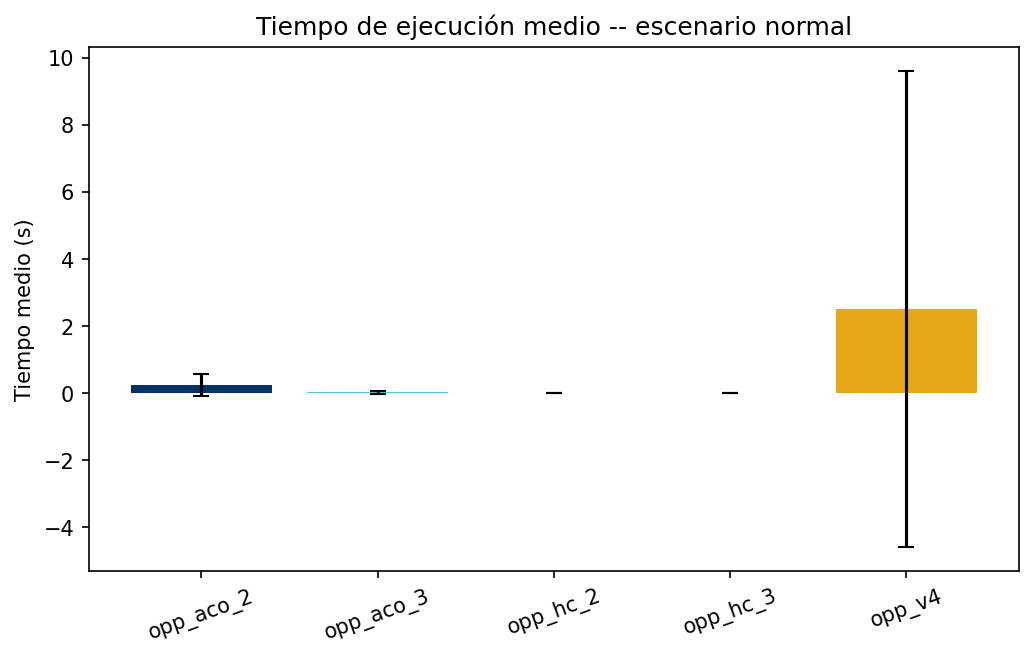
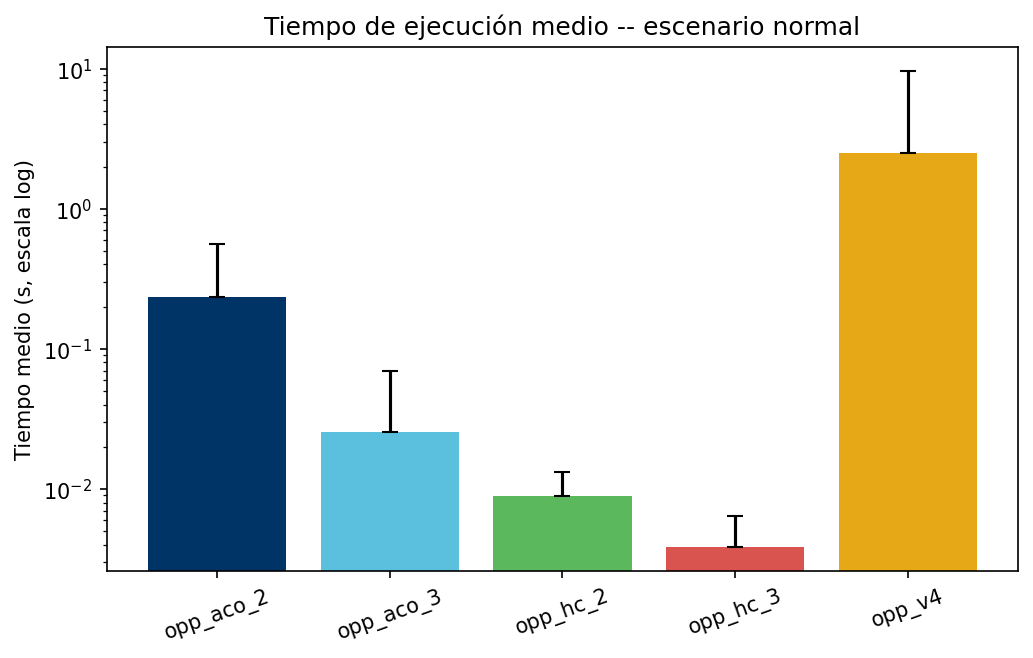
Run analysis and add readme and a report

diff --git a/analysis/plots.py b/analysis/plots.py
@@ -24,16 +24,26 @@ def _save(fig, name: str) -> str:
 
 
 def plot_mean_time_by_scenario(time_stats_df, scenario: str) -> "str | None":
-    """Grouped bar: mean total_time per model, for one scenario."""
+    """
+    Grouped bar: mean total_time per model, for one scenario. Log-scaled
+    (times here span 3+ orders of magnitude, e.g. opp_hc_2's ~0.02s vs
+    opp_aco_3's ~1000s -- on a linear axis the fast models are literally
+    invisible next to the slow ones). Error bars are one-sided upward only:
+    total_time can't be negative, so a symmetric std bar (mean - std) would
+    dip below zero whenever std > mean, which happened here and is
+    meaningless for a duration.
+    """
     sub = time_stats_df[time_stats_df["scenario"] == scenario]
     if sub.empty:
         print(f"[plots] no time_stats data for scenario={scenario}, skipping bar chart.")
         return None
 
+    std = sub["std_time"].fillna(0)
     fig, ax = plt.subplots(figsize=(7, 4.5))
-    ax.bar(sub["model"], sub["mean_time"], yerr=sub["std_time"].fillna(0),
+    ax.bar(sub["model"], sub["mean_time"], yerr=[[0] * len(sub), std],
            color=PALETTE[: len(sub)], capsize=4)
-    ax.set_ylabel("Tiempo medio (s)")
+    ax.set_yscale("log")
+    ax.set_ylabel("Tiempo medio (s, escala log)")
     ax.set_title(f"Tiempo de ejecución medio -- escenario {scenario}")
     ax.tick_params(axis="x", rotation=20)
     fig.tight_layout()
@@ -61,18 +71,35 @@ def plot_profiling_stacked(profiling_df) -> "str | None":
 
 
 def plot_quality_gap(quality_gap_df) -> "str | None":
-    """Grouped bar: mean optimality gap (%) per model x scenario."""
+    """
+    Grouped bar: mean AND median optimality gap (%) per model (normal
+    scenario only so far -- see metrics.quality_gap_table). Showing mean
+    alone is actively misleading here: it's pulled way up by a handful of
+    outlier instances while the median sits at 0% (more than half the
+    matched instances hit the exact optimum). A mean-only chart would
+    contradict the mean/median split already called out in the report text.
+    """
     if quality_gap_df.empty:
         print("[plots] no quality-gap data yet (need matching opp_v4 + heuristic OK "
               "runs on the same instances), skipping chart.")
         return None
 
     fig, ax = plt.subplots(figsize=(7, 4.5))
-    pivot = quality_gap_df.pivot(index="model", columns="scenario", values="mean_gap_pct")
-    pivot.plot.bar(ax=ax, color=PALETTE[: len(pivot.columns)])
+    x = range(len(quality_gap_df))
+    width = 0.35
+    ax.bar([xi - width / 2 for xi in x], quality_gap_df["mean_gap_pct"], width,
+           label="media", color=PALETTE[0])
+    ax.bar([xi + width / 2 for xi in x], quality_gap_df["median_gap_pct"], width,
+           label="mediana", color=PALETTE[1])
+    ax.set_xticks(list(x))
+    ax.set_xticklabels(
+        [f"{m}\n({s})" for m, s in zip(quality_gap_df["model"], quality_gap_df["scenario"])],
+        rotation=0,
+    )
     ax.set_ylabel("Gap vs. opp_v4 (%)")
-    ax.set_title("Gap de optimalidad de cada heurística vs. el modelo exacto")
+    ax.set_title("Gap de optimalidad vs. el modelo exacto (media vs. mediana)")
     ax.axhline(0, color="black", linewidth=0.8)
+    ax.legend()
     fig.tight_layout()
     return _save(fig, "quality_gap.png")
 
@@ -99,12 +126,14 @@ def plot_congestion_wait(congestion_df) -> "str | None":
     return _save(fig, "congestion_wait.png")
 
 
-def plot_scatter_time_vs_param(df, model: str, scenario: str, param: str) -> "str | None":
+def plot_scatter_time_vs_param(df, model: str, scenario: str, param: str,
+                                min_points: int = 3) -> "str | None":
     """Scatter of `param` (e.g. N or V) vs total_time, OK rows only, one model/scenario."""
     sub = df[(df["model"] == model) & (df["scenario"] == scenario) & (df["status"] == "ok")]
     sub = sub.dropna(subset=[param, "total_time"])
-    if sub.empty:
-        print(f"[plots] no data for {model}/{scenario} to scatter {param} vs total_time.")
+    if len(sub) < min_points:
+        print(f"[plots] only {len(sub)} OK point(s) for {model}/{scenario} ({param} vs "
+              f"total_time) -- need >= {min_points} for a scatter to say anything, skipping.")
         return None
 
     fig, ax = plt.subplots(figsize=(6, 4.5))

diff --git a/analysis/run_analysis.py b/analysis/run_analysis.py
@@ -76,9 +76,13 @@ def main():
     charts.append(plot_profiling_stacked(profiling))
     charts.append(plot_quality_gap(quality_gap))
     charts.append(plot_congestion_wait(congestion))
-    charts.append(plot_scatter_time_vs_param(df, model="opp_v4", scenario="stress", param="N"))
+    # opp_v4 stress isn't included here: it only ever has 1 OK point (see
+    # analysis/README.md), and plot_scatter_time_vs_param already skips
+    # anything under 3 points rather than draw a one-dot "scatter".
     charts.append(plot_scatter_time_vs_param(df, model="opp_hc_2", scenario="stress", param="N"))
     charts.append(plot_scatter_time_vs_param(df, model="opp_aco_2", scenario="stress", param="V"))
+    charts.append(plot_scatter_time_vs_param(df, model="opp_hc_3", scenario="stress", param="V"))
+    charts.append(plot_scatter_time_vs_param(df, model="opp_aco_3", scenario="stress", param="N"))
     charts = [c for c in charts if c]
 
     os.makedirs(ANALYSIS_OUTPUT_DIR, exist_ok=True)

diff --git a/analysis/README.md b/analysis/README.md
@@ -59,17 +59,59 @@ sea válido), pensado para cubrir el rango de `N` (cantidad de pedidos) y `V`
   esa escala el solver exacto no converge en tiempo razonable (ver
   `tests/outputs/opp_v3/stress/complete_output_v3_stress_tests.csv`, y la
   hipótesis de "asintotismo exponencial" en `specs/model_analysis.md` sec. 5)
-  — correrlos ahí solo quemaría CPU para un timeout garantizado.
-- **`opp_aco_2`, `opp_hc_3`, `opp_aco_3` tienen los 11**, con 09/10/11
-  gateados detrás de `RUN_LARGE_TESTS=1` (mismo mecanismo que ya usaba
-  `opp_hc_2` test #15) porque son instancias pesadas (hasta 750 órdenes /
-  5000 nodos) — corren, pero tardan.
-- Si se necesita más resolución para la correlación paramétrica, se puede
-  ampliar el subconjunto siguiendo el mismo patrón: reusar el *builder* de
-  escenario de `opp_hc_2` (`scenario_custom_setup` / `scenario_double_grid` /
-  `scenario_six_missions_two_periods_grid_graph`, todos funciones puras sin
-  acoplamiento a ningún modelo) y copiar los parámetros numéricos del test
-  original de `opp_hc_2`/`opp_v3` que se quiera portar.
+  — correrlos ahí solo quemaría CPU para un timeout garantizado. Confirmado
+  empíricamente: de las 8 que sí tiene, solo 1 converge (la infeasible
+  instantánea).
+
+Sobre `RUN_LARGE_TESTS`: existía como gate para las instancias más pesadas
+(09/10/11 acá, y varias más en la batería completa de `opp_hc_2`), pero se
+eliminó (2026-08-19, a pedido explícito): todos los tests de estrés corren
+siempre. Si ves referencias viejas a esa variable en commits/documentación
+anteriores, ya no aplican.
+
+#### Instancias intermedias (2026-08-26): 9 escenarios más, densidad baja
+
+Con solo los 11 originales, la sección 6 (correlación) tenía muestras muy
+chicas (8-11 puntos `OK` por modelo, y varios con `N` y `V` moviéndose casi
+siempre juntos, sin poder aislar el efecto de cada uno). Se agregaron 9
+escenarios más (`scenario_custom_setup`, misma familia que 04-11), pensados
+específicamente para eso: densidad de pedidos-por-lote entre 2 y 10 (lejos
+de la zona ~20-25+ que colapsa la construcción de rutas de ACO
+independientemente del presupuesto — ver la nota de más abajo), y variando
+`N`/`V` de a uno por vez (mismo `N`/`B` con distinta grilla, y viceversa) en
+vez de siempre juntos:
+
+| Escenario | batches, orders, rows, cols | N   | B  | V   | densidad |
+|-----------|------------------------------|-----|----|-----|----------|
+| A         | 10, 20, 5, 5                 | 20  | 10 | 25  | 2        |
+| B         | 10, 20, 15, 15               | 20  | 10 | 225 | 2        |
+| C         | 10, 20, 20, 20               | 20  | 10 | 400 | 2        |
+| D         | 15, 60, 10, 10               | 60  | 15 | 100 | 4        |
+| E         | 20, 100, 10, 10              | 100 | 20 | 100 | 5        |
+| F         | 20, 100, 15, 15              | 100 | 20 | 225 | 5        |
+| G         | 20, 100, 20, 20              | 100 | 20 | 400 | 5        |
+| H         | 15, 100, 10, 10              | 100 | 15 | 100 | 6.67     |
+| I         | 6, 60, 10, 10                | 60  | 6  | 100 | 10       |
+
+Numeración: `opp_hc_2` las agregó como **35-43** (sigue su propia
+numeración 01-34 ya existente); `opp_aco_2`/`opp_hc_3`/`opp_aco_3` las
+agregaron como **12-20** (seguían su numeración 01-11). **No se agregaron a
+`opp_v4`** — ya no converge ni en las instancias más chicas que tiene
+(01-08), agregar más solo sumaría timeouts garantizados sin aportar datos.
+
+Resultado real (n `OK` en sección 6, estrés, antes → después de sumar estas
+9): `opp_hc_2` 23→32, `opp_aco_2` 8→15, `opp_hc_3` 8→20, `opp_aco_3` 4→7.
+`opp_aco_3` sigue siendo la muestra más chica — es un reflejo genuino de que
+le cuesta más converger (ver "Nota sobre ACO en estrés" abajo), no falta de
+instancias corridas.
+
+Si hace falta más resolución todavía, se puede seguir ampliando con el mismo
+patrón: reusar el *builder* de escenario de `opp_hc_2`
+(`scenario_custom_setup` / `scenario_double_grid` /
+`scenario_six_missions_two_periods_grid_graph`, todas funciones puras sin
+acoplamiento a ningún modelo), eligiendo densidad ≤10 para que converja de
+forma confiable, y siguiendo la numeración de cada modelo desde donde quedó
+(44+ en `opp_hc_2`, 21+ en los demás).
 
 ### Nota sobre ACO en estrés (bug corregido)
 
@@ -96,30 +138,56 @@ heurístico ni cuestión de tuneo:
    probabilidad de los 25 lotes de `test_04` a la vez era ~1e-21 —
    imposible sin importar el presupuesto de hormigas/iteraciones.
 
-El fix real: cada lote se reintenta individualmente (hasta 40 veces) hasta
-salir limpio, en vez de descartar toda la hormiga por un solo lote fallido
-(con rollback del `CongestionTracker` en `opp_aco_3`, vía
-`CongestionTracker.snapshot()`/`restore()`, para que un intento descartado no
-deje reservas fantasma). Con este fix, `test_04` (25 lotes) resuelve
-`optimal` en ~13 minutos con los hiperparámetros **default** (15×60) — sin
-necesidad de tocar `A_ants`/`Max_it`. Al portarlo, la Fase 2 tenía además una
-sutileza: hay que intentar primero la ruta *limpia* (evitando visitados) y
-solo si eso falla, permitir revisitar — invertir el orden causaba una
-regresión real en un test normal ya existente (`test_repeated_picking_locations_2`,
-detectada y corregida en el mismo trabajo).
+El fix real: cada lote se reintenta individualmente hasta salir limpio, en
+vez de descartar toda la hormiga por un solo lote fallido (con rollback del
+`CongestionTracker` en `opp_aco_3`, vía `CongestionTracker.snapshot()`/
+`restore()`, para que un intento descartado no deje reservas fantasma). El
+tope de reintentos (`_MAX_ROUTE_ATTEMPTS_PER_BATCH`, subido de 40 a 100 el
+2026-08-20 tras confirmar empíricamente que 100 ayuda en casos intermedios
+sin costo extra en los que ya andaban bien -- pero **no** en instancias con
+~25+ ubicaciones requeridas por lote, ver más abajo) queda registrado como
+columna en el CSV (`Max_route_attempts_per_batch`) para que quede trazable
+con qué presupuesto se corrió cada fila. Con este fix, `test_04` (25 lotes)
+resuelve `optimal` en ~13 minutos con los hiperparámetros **default**
+(15×60) -- sin necesidad de tocar `A_ants`/`Max_it`. Al portarlo, la Fase 2
+tenía además una sutileza: hay que intentar primero la ruta *limpia*
+(evitando visitados) y solo si eso falla, permitir revisitar -- invertir el
+orden causaba una regresión real en un test normal ya existente
+(`test_repeated_picking_locations_2`, detectada y corregida en el mismo
+trabajo).
 
 Esto sigue siendo relevante para la tesina: aunque ya no es un bug, sí
 confirma que la tasa de éxito de ACO en instancias con muchos lotes depende
 fuertemente de la calidad de la construcción de rutas, no solo de
-hiperparámetros — la sección 1 del pipeline (tasa de éxito/convergencia)
-sigue siendo la que hay que mirar para cuantificar cuánto tarda/falla en
-instancias grandes incluso con el fix.
+hiperparámetros. Con datos reales (2026-08-26, 20 instancias de estrés por
+modelo tras sumar las intermedias): tasa de éxito en estrés `opp_hc_3` 85%,
+`opp_aco_2` 75%, `opp_hc_2` 74% (34 instancias, batería heredada completa),
+`opp_aco_3` 35%, `opp_v4` 12.5%. El costo de modelar congestión en tiempo de
+estrés también es muy distinto entre arquitecturas: `opp_hc_3` no paga casi
+nada frente a `opp_hc_2` (+0.05%, dentro del ruido), `opp_aco_3` paga +263%
+frente a `opp_aco_2` -- la construcción determinística de HC compensa el
+costo de simular congestión; el switch probabilístico τ1/τ2 de ACO3 no.
 
-Los tests de estrés en el modelo exacto pueden tardar varios minutos por
-instancia — correrlos con tiempo de sobra. `opp_v4` requiere el binario
-`zimpl` instalado y en el `PATH` (no verificado en este sandbox: los tests
-nuevos compilan y siguen exactamente el patrón de los tests normales de
-`opp_v4`, que tampoco corren aquí por la misma razón).
+**Instancias que quedan fuera de alcance de cualquier tuneo** (no solo de
+ACO): `test_09`/`10`/`11` (750 órdenes, ~25 ubicaciones requeridas por lote)
+le dan timeout incluso a `opp_hc_2` en la corrida real, y hasta el método
+rápido de `opp_hc_2` (`_generate_feasible_route`, Dijkstra determinístico)
+devuelve `None` para esos lotes -- no es una debilidad puntual de ACO, es
+una densidad de ubicaciones-por-lote combinatoriamente dura para cualquier
+heurístico probado. Documentado como hallazgo, no como pendiente de tuneo.
+
+Los tests de estrés pueden tardar bastante por instancia, sobre todo en ACO
+(hasta ~38 min ya vistos en `opp_aco_3`) — correrlos con
+`STRESS_TEST_TIMEOUT_MINUTES=40` (el default de `TEST_TIMEOUT_MINUTES`, 25,
+se queda corto: algunas instancias que sí convergen tardan 24-25 min, muy al
+límite). No hace falta volver a correr nada que ya corriste con 25 min si
+convirgió (si convergió en X min, con cualquier timeout ≥ X también
+convergería) ni lo que ya dio timeout con un valor menor (con un timeout más
+chico todavía daría timeout) — el resultado a un timeout distinto se puede
+inferir del `total_time` ya registrado sin gastar cómputo de nuevo, salvo
+que quieras confirmarlo.
+
+`opp_v4` requiere el binario `zimpl` instalado y en el `PATH`.
 
 ## 2. Correr el pipeline
 

diff --git a/analysis/output/report.md b/analysis/output/report.md
@@ -103,6 +103,7 @@
 - `profiling_exact_model.png`
 - `quality_gap.png`
 - `congestion_wait.png`
-- `scatter_opp_v4_stress_N.png`
 - `scatter_opp_hc_2_stress_N.png`
 - `scatter_opp_aco_2_stress_V.png`
+- `scatter_opp_hc_3_stress_V.png`
+- `scatter_opp_aco_3_stress_N.png`
